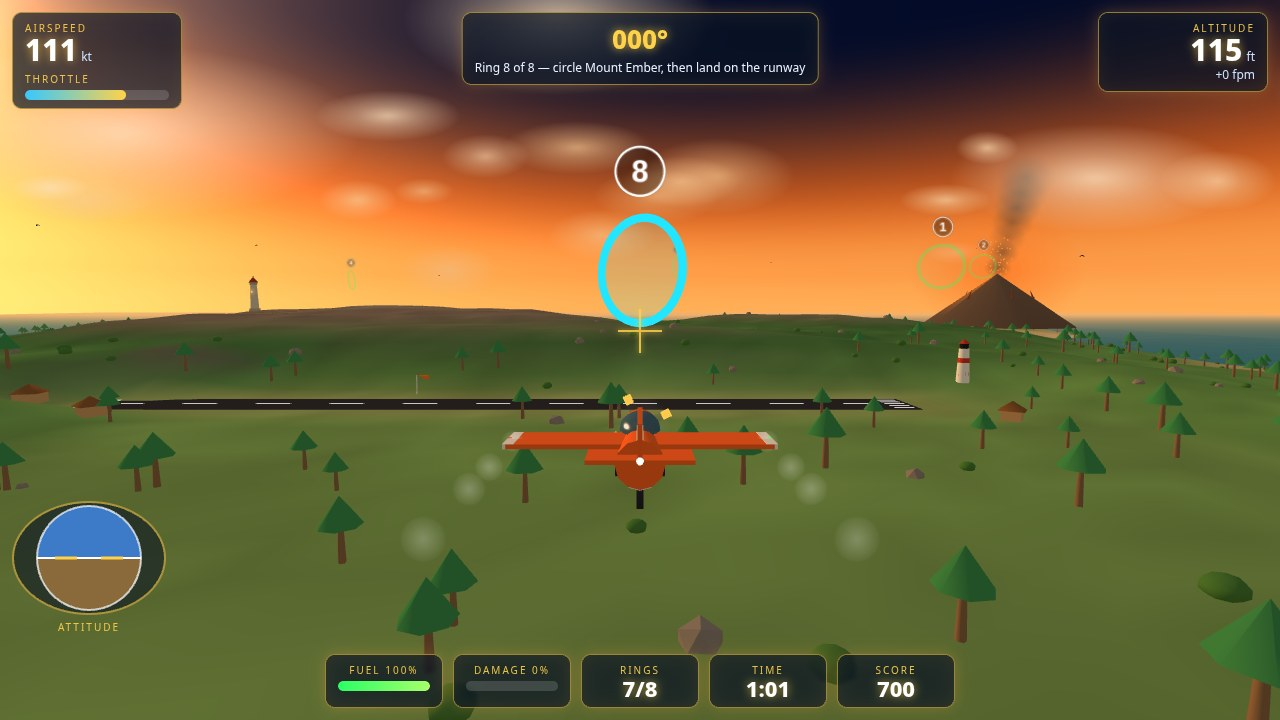
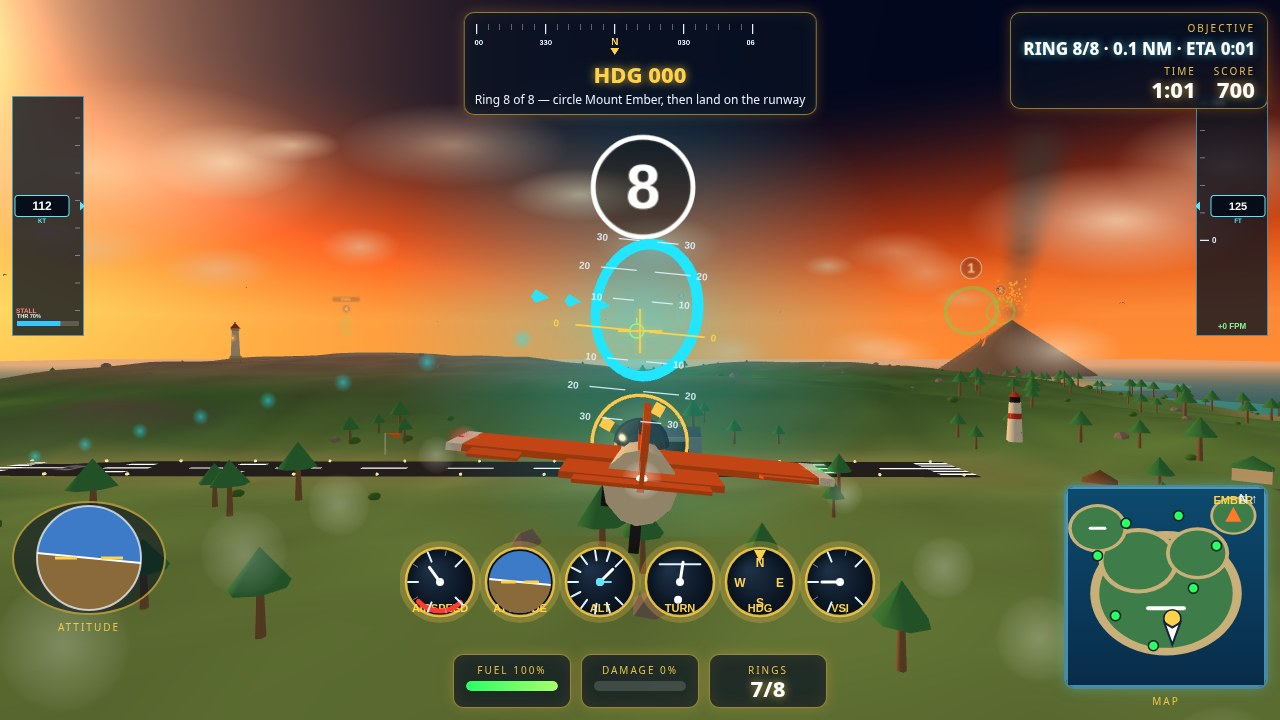
v5 fix pass: smaller HUD (six-pack 480x96, minimap 200px), closer chase camera (plane ~30% width), smaller chevrons near ring, RWY label hidden on final leg, clean six-pack gauges (no overlapping tick numbers, N/E/S/W only) + fresh v5 screenshots

diff --git a/game/src/hud.js b/game/src/hud.js
@@ -47,7 +47,7 @@ export function createHud() {
   let frame = 0;
 
   // ---- Minimap static layer (drawn once; islands/runway/beach/volcano) ----
-  const MAP_W = 340, MAP_H = 340;
+  const MAP_W = 200, MAP_H = 200;
   const mapStatic = document.createElement('canvas');
   mapStatic.width = MAP_W; mapStatic.height = MAP_H;
   const MAP_X0 = -950, MAP_X1 = 950, MAP_Z0 = -850, MAP_Z1 = 750;
@@ -302,7 +302,7 @@ export function createHud() {
     c.strokeStyle = 'rgba(255,210,74,0.85)'; c.lineWidth = 2.5; c.stroke();
     c.strokeStyle = 'rgba(255,190,80,0.25)'; c.lineWidth = 6;
     c.beginPath(); c.arc(cx, cy, r + 4, 0, Math.PI * 2); c.stroke();
-    c.fillStyle = AMBER; c.font = 'bold 13px sans-serif'; c.textAlign = 'center';
+    c.fillStyle = AMBER; c.font = 'bold 11px sans-serif'; c.textAlign = 'center';
     c.fillText(label, cx, cy + r - 4);
   }
   function needle(c, cx, cy, angleDeg, len, color, width) {
@@ -323,16 +323,15 @@ export function createHud() {
       c.moveTo(cx + Math.cos(a) * r1, cy + Math.sin(a) * r1);
       c.lineTo(cx + Math.cos(a) * r2, cy + Math.sin(a) * r2);
       c.stroke();
-      if (major && fmt) {
-        c.fillStyle = '#dff3ff'; c.font = 'bold 13px sans-serif'; c.textAlign = 'center';
-        c.fillText(fmt(v), cx + Math.cos(a) * (r - 24), cy + Math.sin(a) * (r - 24) + 5);
-      }
+      // No number labels: at this gauge size they overlap into an unreadable
+      // jumble. The needle + the digital speed/alt/VSI tapes carry the value.
+
     }
   }
   function drawSixPack(state, hdg, kt, ft, vsFpm) {
-    const c = packCtx, W = 720, H = 128;
+    const c = packCtx, W = 480, H = 96;
     c.clearRect(0, 0, W, H);
-    const R = 50, CY = 58, xs = [60, 180, 300, 420, 540, 660];
+    const R = 34, CY = 44, xs = [40, 120, 200, 280, 360, 440];
     // 1 — Airspeed (0–160 kt, red arc below 55).
     gaugeFace(c, xs[0], CY, R, 'AIRSPEED');
     c.strokeStyle = '#ff3b30'; c.lineWidth = 5;
@@ -351,33 +350,34 @@ export function createHud() {
     c.restore();
     c.strokeStyle = AMBER; c.lineWidth = 3;
     c.beginPath();
-    c.moveTo(xs[1] - 26, CY); c.lineTo(xs[1] - 8, CY);
-    c.moveTo(xs[1] + 8, CY); c.lineTo(xs[1] + 26, CY);
+    c.moveTo(xs[1] - R * 0.52, CY); c.lineTo(xs[1] - R * 0.16, CY);
+    c.moveTo(xs[1] + R * 0.16, CY); c.lineTo(xs[1] + R * 0.52, CY);
     c.stroke();
     // 3 — Altimeter (needle = 1000 ft/rev, short needle = 100 ft).
     gaugeFace(c, xs[2], CY, R, 'ALT');
     dialTicks(c, xs[2], CY, R, 0, 10, 1, 1, (v) => String(v));
     needle(c, xs[2], CY, (ft % 1000) / 1000 * 360, R - 16, '#ffffff', 3);
-    needle(c, xs[2], CY, (ft % 100) / 100 * 360, R - 30, CYAN, 2);
+    needle(c, xs[2], CY, (ft % 100) / 100 * 360, R * 0.32, CYAN, 2);
     // 4 — Turn coordinator (needle = bank, ball = slip approx).
     gaugeFace(c, xs[3], CY, R, 'TURN');
     c.strokeStyle = '#dff3ff'; c.lineWidth = 2;
-    c.beginPath(); c.moveTo(xs[3] - 30, CY - 26); c.lineTo(xs[3] + 30, CY - 26); c.stroke();
+    c.beginPath(); c.moveTo(xs[3] - R * 0.6, CY - R * 0.52); c.lineTo(xs[3] + R * 0.6, CY - R * 0.52); c.stroke();
     const bankDeg = clamp(state.bank * 180 / Math.PI, -45, 45);
     needle(c, xs[3], CY, bankDeg * 1.6, R - 14, '#ffffff', 3);
-    const ballX = xs[3] + clamp(-state.bank * 30, -24, 24);
-    c.fillStyle = '#ffffff'; c.beginPath(); c.arc(ballX, CY + 26, 6, 0, Math.PI * 2); c.fill();
+    const ballX = xs[3] + clamp(-state.bank * 20, -R * 0.7, R * 0.7);
+    c.fillStyle = '#ffffff'; c.beginPath(); c.arc(ballX, CY + R * 0.52, 4, 0, Math.PI * 2); c.fill();
     // 5 — Heading (rotating card, fixed lubber).
     gaugeFace(c, xs[4], CY, R, 'HDG');
     c.save();
     c.beginPath(); c.arc(xs[4], CY, R - 3, 0, Math.PI * 2); c.clip();
     c.translate(xs[4], CY); c.rotate(-hdg * Math.PI / 180);
-    c.textAlign = 'center'; c.font = 'bold 15px sans-serif';
+    c.textAlign = 'center'; c.font = 'bold 12px sans-serif';
     for (let d = 0; d < 360; d += 30) {
       const a = (d - 90) * Math.PI / 180;
       const card = d % 90 === 0;
-      c.fillStyle = card ? AMBER : '#dff3ff';
-      c.fillText(card ? ['N', 'E', 'S', 'W'][d / 90] : String(d).padStart(3, '0'),
+      if (!card) continue; // degree numbers overlap at this gauge size; N/E/S/W only
+      c.fillStyle = AMBER;
+      c.fillText(['N', 'E', 'S', 'W'][d / 90],
         Math.cos(a) * (R - 14), Math.sin(a) * (R - 14) + 5);
     }
     c.restore();

diff --git a/game/src/rings.js b/game/src/rings.js
@@ -113,12 +113,12 @@ export function buildRingCourse(scene, mission) {
     const chevrons = new THREE.Group();
     const chevBase = [];
     const chevMat = new THREE.MeshBasicMaterial({ color, transparent: true, opacity: 0.95 });
-    const chevGeo = new THREE.ConeGeometry(3.4, 9, 4);
+    const chevGeo = new THREE.ConeGeometry(1.2, 3.2, 4);
     for (let k = 0; k < 3; k++) {
       const c = new THREE.Mesh(chevGeo, chevMat);
       c.quaternion.copy(torus.quaternion);
       c.rotateX(-Math.PI / 2); // cone tip points through the ring (-Z local)
-      const p = new THREE.Vector3(def.x, def.y, def.z).addScaledVector(dir, 24 + k * 15);
+      const p = new THREE.Vector3(def.x, def.y, def.z).addScaledVector(dir, 12 + k * 8);
       c.position.copy(p);
       chevBase.push(p);
       chevrons.add(c);
@@ -206,6 +206,9 @@ export function setRingStates(rings, nextIndex) {
       r.pathMat.opacity = 0;
       if (r.fuelIcon) r.fuelIcon.material.opacity = 0.85;
     }
+    // RWY distance label: show only while the final ring is still ahead
+    // (not the next ring, not passed) so it never overlaps the HUD on final.
+    if (r.distLabel) r.distLabel.visible = !r.passed && i !== nextIndex;
   });
 }
 

diff --git a/game/src/main.js b/game/src/main.js
@@ -427,8 +427,8 @@ function updateCamera(dt, t) {
   // (first frames / staged shots) so the plane is never a speck on screen.
   // The look point sits a few metres ABOVE the plane so it reads in the
   // lower-centre third and the horizon lands ~40% from the top.
-  const dist = 16 + flight.speed * 0.08;
-  const height = 5 + flight.speed * 0.03;
+  const dist = 10 + flight.speed * 0.04;
+  const height = 3 + flight.speed * 0.015;
   const tx = flight.x - fwd.x * dist + look.x * 8;
   const tz = flight.z - fwd.z * dist;
   const ty = flight.y + height + look.y * 4;
@@ -445,7 +445,7 @@ function updateCamera(dt, t) {
   // target stays in frame while the plane holds the lower-centre third.
   let lx = flight.x + fwd.x * 26;
   let lz = flight.z + fwd.z * 26;
-  let ly = flight.y + 4;
+  let ly = flight.y + 1;
   if (mission && course) {
     const next = course.rings.find((r) => !r.passed);
     const obj = next ? next.def : { x: 0, y: 12, z: 120 };

diff --git a/game/index.html b/game/index.html
@@ -154,11 +154,11 @@
     <div class="label">ATTITUDE</div>
   </div>
   <div id="hud-minimap-wrap">
-    <canvas id="hud-minimap" width="340" height="340"></canvas>
+    <canvas id="hud-minimap" width="200" height="200"></canvas>
     <div class="label">MAP</div>
   </div>
   <div id="hud-sixpack-wrap">
-    <canvas id="hud-sixpack" width="720" height="128"></canvas>
+    <canvas id="hud-sixpack" width="480" height="96"></canvas>
   </div>
   <div id="hud-crosshair"></div>
   <div id="hud-warning"></div>
